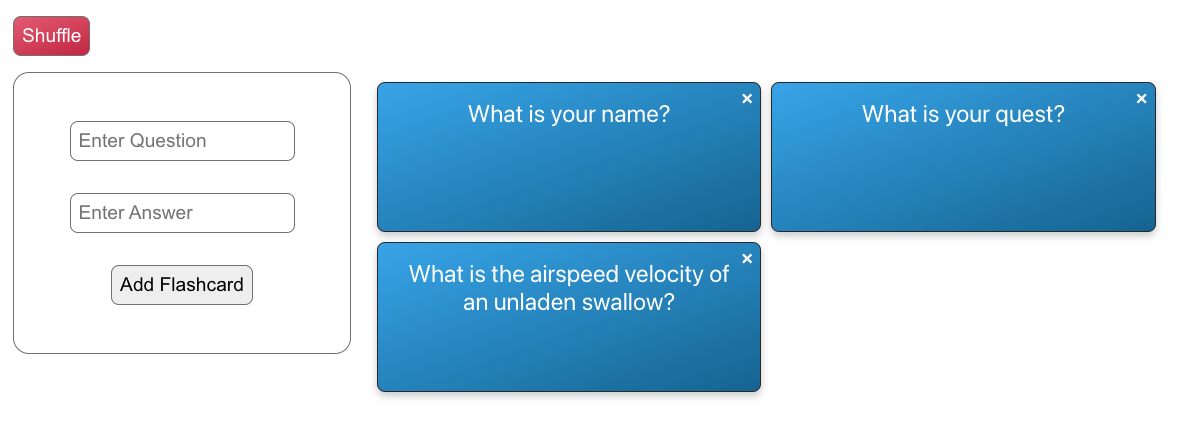
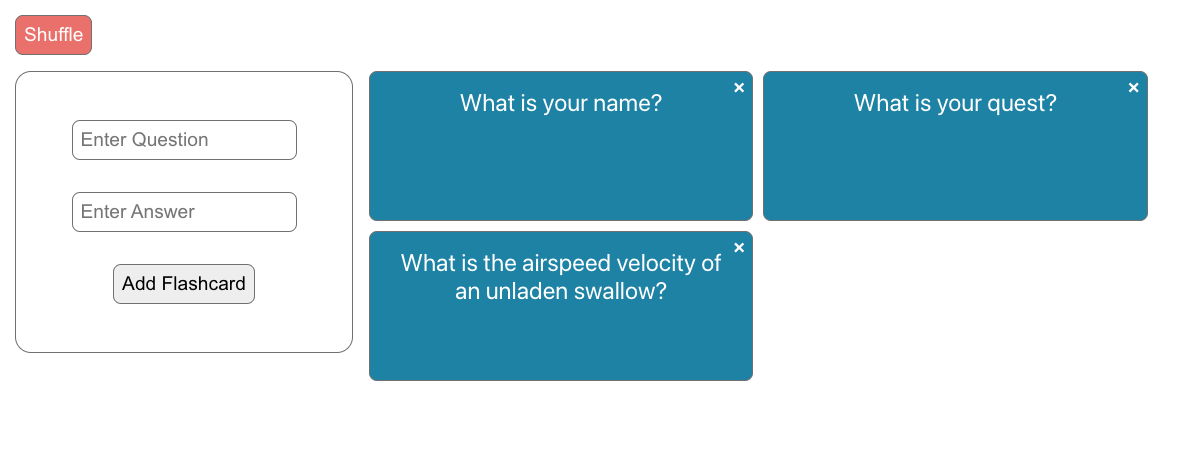
Make cards different color when flipped

diff --git a/src/index.css b/src/index.css
@@ -7,6 +7,14 @@ body {
   -moz-osx-font-smoothing: grayscale;
 }
 
+:root {
+  --cerulean: #0081a7ff;
+  --verdigris: #00afb9ff;
+  --light-yellow: #fdfcdcff;
+  --light-orange: #fed9b7ff;
+  --bittersweet: #f07167ff;
+}
+
 .delete-button {
   color: white;
   cursor:pointer;
@@ -22,7 +30,6 @@ body {
   grid-template-columns: repeat(auto-fill, minmax(350px, 1fr));
   grid-auto-rows: minmax(150px, auto);
   grid-gap: 10px;
-  padding: 10px;
   width: 59%;
 }
 
@@ -31,17 +38,25 @@ body {
   justify-content: center;
   align-items: center;
   position: relative;
-  background-image: linear-gradient(160deg, #26a1ed 0%, #026292 100%);
-  border: 1px solid #282828;
+  border: 1px solid #707070;
   border-radius: .5rem;
   padding: 1rem;
   text-align: center;
-  box-shadow: 0 4px 8px 0 rgba(0, 0, 0, 0.2);
   transition: box-shadow 0.25s;
-}
 
-.flash-card:hover {
-  box-shadow: 0 8px 16px 0 rgba(0, 0, 0, 0.2);
+  &:hover {
+    box-shadow: 0 4px 8px 0 rgba(0, 0, 0, 0.4);
+  }
+
+  &.question {
+    background-color: var(--cerulean);
+    /* background-image: linear-gradient(160deg, #26a1ed 0%, #026292 100%); */
+  }
+
+  &.answer {
+    background-color: var(--verdigris);
+    /* background-image: linear-gradient(160deg, #00ba9b 0%, #00826c 100%); */
+  }
 }
 
 .card-body {
@@ -54,7 +69,7 @@ body {
 .shuffle {
   margin: 1rem;
   color: white;
-  background-image: linear-gradient(160deg, #e75a71 0%, #c7233f 100%);
+  background-color: var(--bittersweet)
 }
 
 input {

diff --git a/src/Card.js b/src/Card.js
@@ -1,7 +1,7 @@
 import { useState } from 'react';
 
 function Card ({ card, handleDeleteCard }) {
-    const [flipCard, setFlipCard] = useState(false);
+    const [flipCard, setFlipCard] = useState(true);
 
     const handleDelete = (cardId) => {
         handleDeleteCard(cardId);
@@ -13,10 +13,13 @@ function Card ({ card, handleDeleteCard }) {
         })
     }
 
+    var className = "flash-card ";
+    className += flipCard ? "question" : "answer";
+
     return (
-        <div className="flash-card">
+        <div className={className}>
             <div className="card-body" onClick={() => setFlipCard(!flipCard)}>
-                {flipCard ? card.answer : card.question}
+                {flipCard ? card.question : card.answer}
             </div>
             <span className='delete-button' onClick={() => handleDelete(card.id)}>&times;</span>
         </div>
